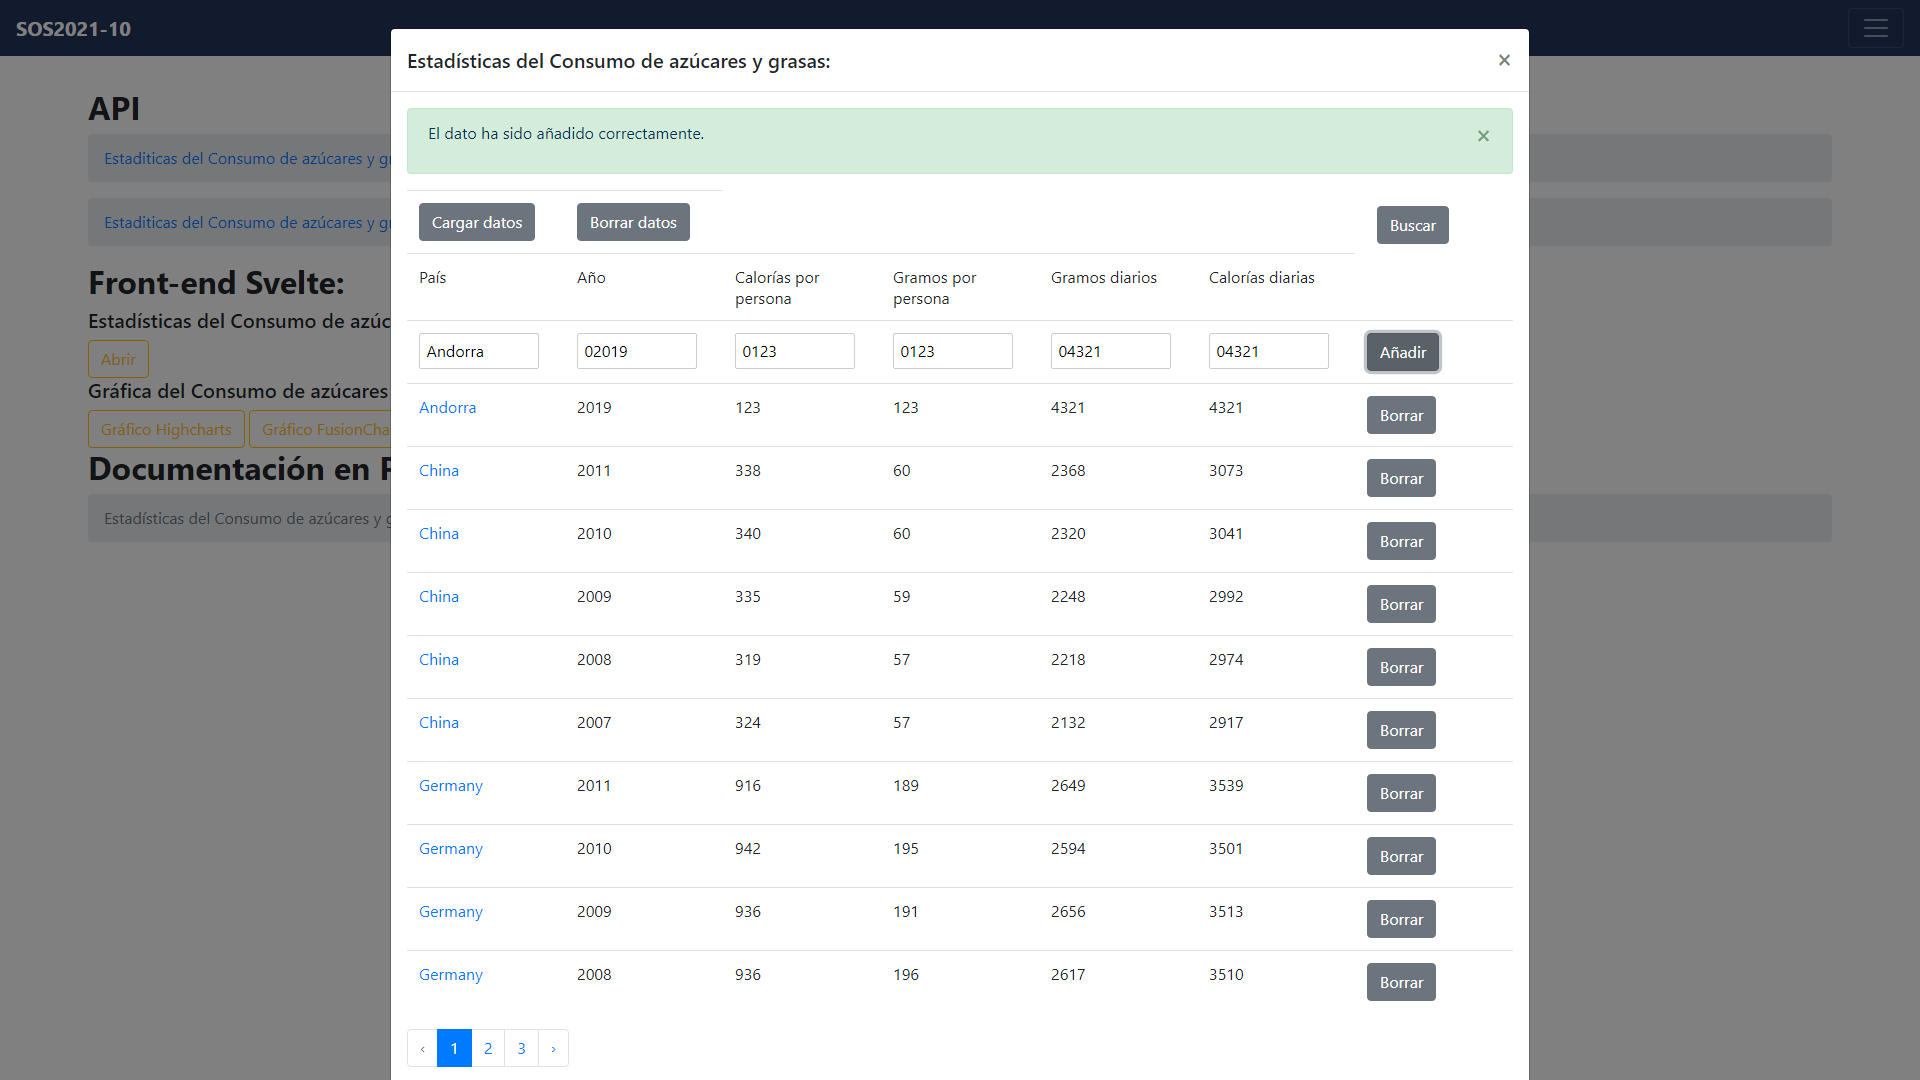
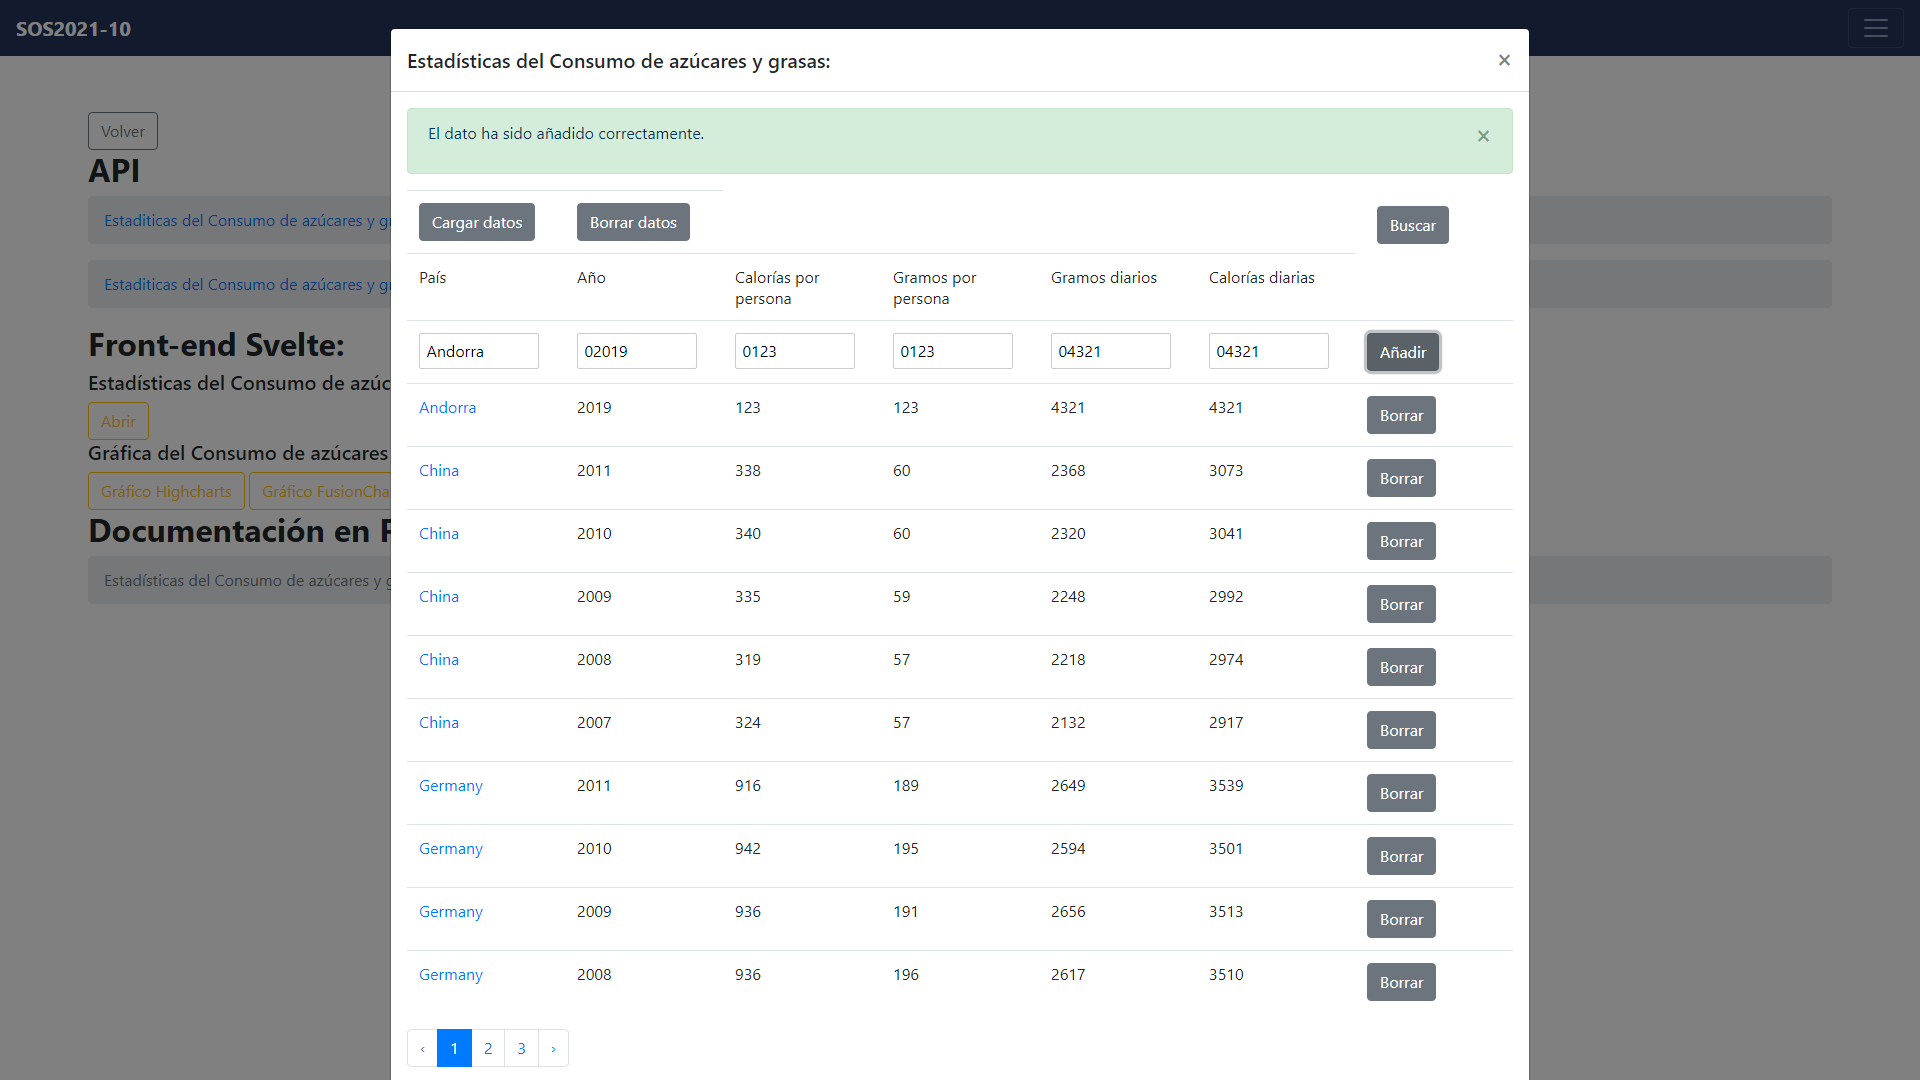
integraciones y e2e terminados

Changed region(s): [[0.0312, 0.2444, 0.2188, 0.55], [0.0312, 0.0917, 0.1875, 0.1833], [0.0625, 0.1833, 0.1875, 0.2139]]

diff --git a/src/frontend/Integrations/FoodIntegration/G04-poverty-risks.svelte b/src/frontend/Integrations/FoodIntegration/G04-poverty-risks.svelte
@@ -1,5 +1,5 @@
 <script>
-import Header from '../Header.svelte';
+    import Header from '../Header.svelte';
     import FusionCharts from 'fusioncharts';
     import Charts from 'fusioncharts/fusioncharts.charts';
     import FusionTheme from 'fusioncharts/themes/fusioncharts.theme.fusion';
@@ -9,21 +9,120 @@ import Header from '../Header.svelte';
     } from "svelte";
     import Button from "sveltestrap/src/Button.svelte";
 
-var BASE_CONTACT_API_PATH= "/api/v2";
+    var dataSource={};
+    ;
+    var BASE_CONTACT_API_PATH= "/api/v2";
+    fcRoot(FusionCharts, Charts, FusionTheme);
+    let anyos=[];
+    let categorias=[];
+    let dicFood={};
+    let dicPoverty={};
+    let dataPoverty=[];
+    let valuesFood=[];
+    let valuesPoverty=[];
+    let anyosOrdenados=[];
 
 async function getData(){
-    const res = await fetch(BASE_CONTACT_API_PATH + "/foodconsumption-stats?year=2011");
-    const res2 = await fetch("https://endpoint-poverty-risks.herokuapp.com/api/v1");
-        if(resDataEXT.ok){
+    const res = await fetch(BASE_CONTACT_API_PATH + "/foodconsumption-stats?country=Germany");
+    const res2 = await fetch("https://endpoint-poverty-risks.herokuapp.com/api/v1?c=Alemania");
+        if(res.ok){
             console.log("Ok."); 
             const json = await res.json();
             const json2 = await res2.json();
+            dataPoverty.push(json2);
            console.log(json);
+            let i=0;
+            while(i<json.length){
+                
+                anyos.push(json[i].year);
+                dicFood[json[i].year]=  json[i].gramperperson
+                i++;
+            }
+            let e=0;
+            while(e<dataPoverty.length){
+                
+                anyos.push(dataPoverty[e].year)
+                dicPoverty[dataPoverty[e].year]=  dataPoverty[e].percentage_risk_of_poverty
+                e++;
+                console.log(dataPoverty[e])
+            }
+            anyosOrdenados = anyos.sort();
+            anyosOrdenados.forEach(x=>{
+                
+                if(Object.keys(dicFood).includes(x.toString())){
+                    valuesFood.push({value: dicFood[x]})
+                }
+                else{
+                    valuesFood.push({value: null})
+                }
+
+            });
+            
+            anyosOrdenados.forEach(x=>{
+                if(Object.keys(dicPoverty).includes(x.toString())){
+                    valuesPoverty.push({value: dicPoverty[x]})
+                }
+                else{
+                    valuesPoverty.push({value: null})
+                }
+
+            });
+            anyosOrdenados.forEach(x=> categorias.push({label: x.toString()}));
+
+
+            
+            console.log(categorias);
+            console.log(valuesFood);
         }else{
             console.log("Error!");
         }
 
+        dataSource = {
+  "chart": {
+    "caption": "Integración con riesgos de pobreza",
+    "subcaption": "Datos Alemania",
+    "yaxisname": "Cantidad",
+    "formatnumberscale": "0",
+
+    "snumbersuffix": "%",
+    "showvalues": "0",
+    "plottooltext": "<b>$dataValue</b> $seriesName en $label",
+    "theme": "fusion"
+  },
+  "categories": [
+    {
+      "category": categorias
     }
-    onMount(getData);
+  ],
+  "dataset": [
+    {
+      "seriesname": "Porcenaje de riesgo de pobreza",
+      "data": valuesPoverty
+    },
+    {
+      "seriesname": "Gramos por persona",
+      "plottooltext": "<b>$dataValue</b> $seriesName en $label",
+      "renderas": "Line",
+      "data": valuesFood
+    }
+  ]
+};
+    cargarConf();
+      }
+      onMount(getData);
+    var chartConfigs={};
+    async function cargarConf(){
+      chartConfigs = {
+        type: 'stackedcolumn2dline',
+        width: 1200,
+        height: 500,
+        dataFormat: 'json',
+        dataSource
+    };
+  }
     
 </script>
+<Header/>
+<br>
+<Button outline color="secondary" onclick="window.location.href='#/integrations'">Volver</Button>
+<SvelteFC {...chartConfigs} />

diff --git a/e2eTests/food/e2eFood.js b/e2eTests/food/e2eFood.js
@@ -6,11 +6,15 @@ const url = 'e2eTests/food/capturas/';
   const page = await browser.newPage();
   await page.setViewport({ width: 1920, height: 1080 });
 
-  await page.goto('http://localhost:10000/#/foodconsumption-stats');
+  await page.goto('http://localhost:10000/#/info');
+  await page.click('body > main > main > main > nav > button');
+  await page.waitForTimeout(1000);
+  await page.click("body > main > main > main > nav > div > ul > li:nth-child(1) > a");
+  await page.waitForTimeout(100);
   await page.screenshot({ path: url + 'FoodConsumption.png' });
 
  //Captura tabla
-  await page.click("body > main > main > button:nth-child(7)");
+  await page.click("body > main > main > button:nth-child(9)");
   await page.waitForTimeout(1000);
   await page.screenshot({ path: url + 'TablaFood.png' });
 
@@ -44,9 +48,51 @@ const url = 'e2eTests/food/capturas/';
 
     await page.screenshot({ path: url + 'DatosAñadidos.png'});
 
+    //Borrar dato
+    await page.click("body > main > main > div > div.modal.show.d-block > div > div > div.modal-body > main > div.table-responsive > table > tbody > tr:nth-child(2) > td:nth-child(7) > button");
+    await page.waitForTimeout(1000);  
+    await page.screenshot({ path: url + 'DatoEliminado.png'});
+
+    //Filtrar datos
+    await page.click("#btn-right");
+    await page.click("#filtroPais");
+    await page.focus('#datoFiltroPais');
+    await page.keyboard.type("China");
+    await page.waitForTimeout(500);
+
+    await page.click("body > main > main > div > div.modal.show.d-block > div > div > div.modal-body > main > div.mt-3 > div > div.popover-body > ul > button.btn.btn-secondary");
+    
+
+    await page.screenshot({ path: url + 'DatosFiltrados.png'});
+
+
     //Carga datos iniciales
     await page.click('body > main > main > div > div.modal.show.d-block > div > div > div.modal-body > main > div.table-responsive > table > thead > tr:nth-child(1) > td:nth-child(1) > button');
     await page.waitForTimeout(1000); 
     await page.screenshot({ path: url + 'DatosInicialesCargados.png'});
+    await page.click(" body > main > main > div > div.modal.show.d-block > div > div > div.modal-header > button");
+    await page.waitForTimeout(1000); 
+    
+   
+    //Mostrar mi gráfica 
+  await page.click("body > main > main > button:nth-child(12)");
+  await page.waitForTimeout(1000);
+  await page.screenshot({ path: url + 'GraficaFusionCharts.png' });
+  await page.click("body > main > main > button");
+  await page.waitForTimeout(1000);  
+
+  //Mostrar página Integraciones
+  await page.click("body > main > main > div > button:nth-child(9)");
+  await page.waitForTimeout(1000); 
+  await page.screenshot({ path: url + 'Integraciones.png' });
+
+  //Mostrar Integración API Externa 1
+  await page.click("body > main > main > div > ul:nth-child(5) > button:nth-child(7)");
+  await page.waitForTimeout(1000);
+  await page.screenshot({ path: url + 'APIExt1.png' });
+
+ 
+
+
   await browser.close();
 })();

diff --git a/src/frontend/Integrations.svelte b/src/frontend/Integrations.svelte
@@ -53,12 +53,14 @@
 		Intregraciones Consumo de Azúcares y Grasas:
 	</h2>
 	<ul>
-		<Button href="/#/foodconsumption-stats/divorce-stats"> G01-Divorce stats</Button>
-		<Button href="/#/foodconsumption-stats/nuts-production"> G02-Nuts Production</Button>
-		<Button href="/#/foodconsumption-stats/wine-production-stats"> G02-Wine Production</Button>
-		<Button href="/#/foodconsumption-stats/international-tourism"> G03-International tourism</Button>
-		<Button href="/#/foodconsumption-stats/poverty-risks"> G04-Poverty risks</Button>
-		<Button href="/#/foodconsumption-stats/children-out-school"> G24-Children out of school</Button>
+		<Button  class="secondary" onclick="window.location.href='#/foodconsumption-stats/divorce-stats'" >G01-Divorce stats</Button>
+		<Button  class="secondary" onclick="window.location.href='/#/foodconsumption-stats/nuts-production'"> G02-Nuts Production</Button>
+		<Button class="secondary" onclick="window.location.href='/#/foodconsumption-stats/wine-production-stats'"> G02-Wine Production</Button>
+		<Button class="secondary" onclick="window.location.href='/#/foodconsumption-stats/international-tourism'"> G03-International tourism</Button>
+		<Button  class="secondary" onclick="window.location.href='/#/foodconsumption-stats/poverty-risks'"> G04-Poverty risks</Button>
+		<Button class="secondary" onclick="window.location.href='/#/foodconsumption-stats/children-out-school'"> G24-Children out of school</Button>
+		<Button class="secondary" onclick="window.location.href='/#/foodconsumption-stats/apiext1'"> API Externa 1</Button>
+		<Button class="secondary" onclick="window.location.href='/#/foodconsumption-stats/apiext2'"> API Externa 2</Button>
 	</ul>
 	<h2>
 		Intregraciones Obesidad:

diff --git a/src/frontend/foodConsumption/TableFood.svelte b/src/frontend/foodConsumption/TableFood.svelte
@@ -287,7 +287,7 @@
 								<li><CustomInput
         						type="checkbox"
        							 id="filtroPais"
-        						label="País" ><input bind:value="{filterFoodconsumption.country}"></CustomInput></li>
+        						label="País" ><input id="datoFiltroPais" bind:value="{filterFoodconsumption.country}"></CustomInput></li>
 								<li><CustomInput
         						type="checkbox"
        							 id="filtroAnyo"
@@ -295,7 +295,7 @@
 								<li><CustomInput
         						type="checkbox"
        							 id="filtroCalPer"
-        						label="Calorías por persona mayor que" ><input type=number bind:value="{filterFoodconsumption.caloryperperson}"></CustomInput></li>
+        						label="Calorías por persona mayor que" ><input  id="datoFiltroCalorias" type=number bind:value="{filterFoodconsumption.caloryperperson}"></CustomInput></li>
 								<li><CustomInput
         						type="checkbox"
        							 id="filtroGramPer"

diff --git a/src/frontend/foodConsumption/HomeFood.svelte b/src/frontend/foodConsumption/HomeFood.svelte
@@ -10,7 +10,7 @@
 		Breadcrumb,
 		BreadcrumbItem
 	} from 'sveltestrap';
-	
+
 	let open = false;
 	
 	const toggle = () =>{
@@ -20,7 +20,8 @@
 
 <main>
 	<Header/>
-	
+	<br>
+	<Button outline color="secondary" onclick="window.location.href='#/info'">Volver</Button>
 	<h2>
 		<strong>API</strong>
 	</h2>
